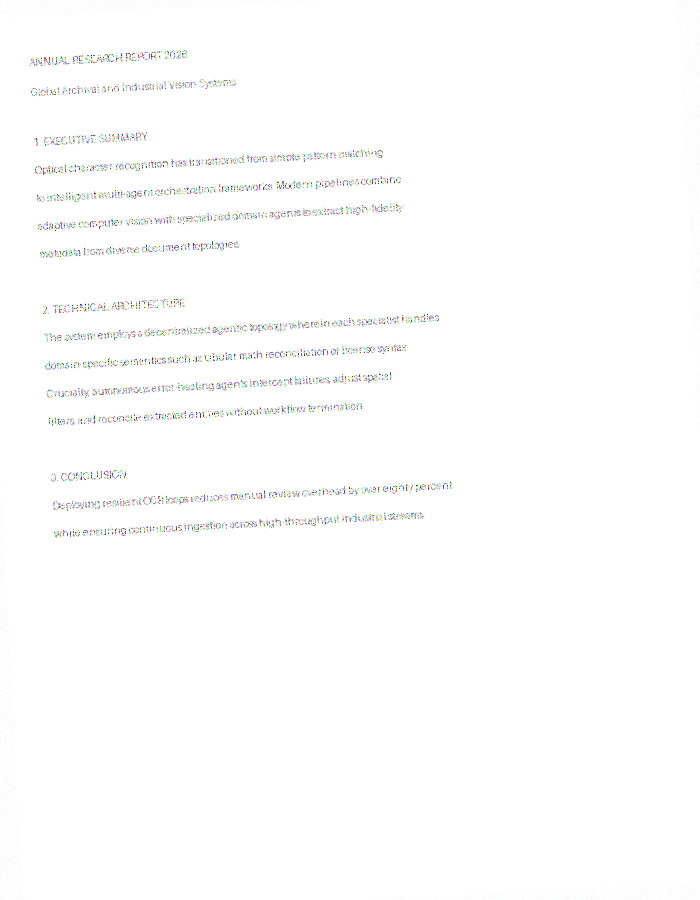
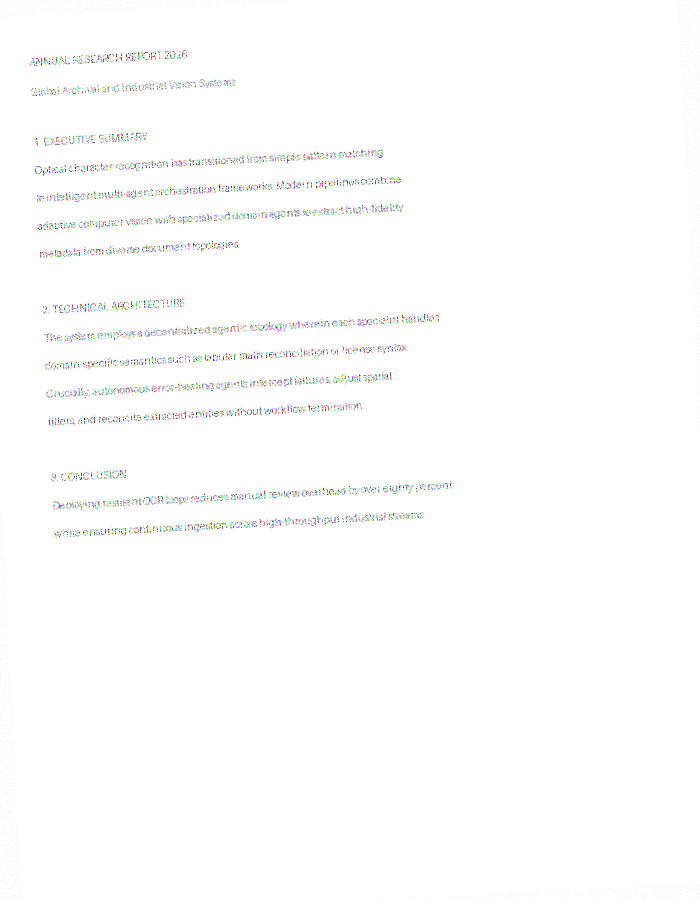
fix: handle None values in invoice financial fields (TypeError on real-world PDFs)

diff --git a/ocr_agentic_system/app.py b/ocr_agentic_system/app.py
@@ -265,9 +265,9 @@ if file_path and os.path.exists(file_path):
                 with icol2:
                     fin = ext.get("financial_summary", {})
                     curr = ext.get("currency", "$")
-                    st.markdown(f"**Subtotal:** {curr}{fin.get('subtotal', 0.0):.2f}")
-                    st.markdown(f"**Tax / VAT:** {curr}{fin.get('tax', 0.0):.2f}")
-                    st.markdown(f"### Grand Total: {curr}{fin.get('grand_total', 0.0):.2f}")
+                    st.markdown(f"**Subtotal:** {curr}{(fin.get('subtotal') or 0.0):.2f}")
+                    st.markdown(f"**Tax / VAT:** {curr}{(fin.get('tax') or 0.0):.2f}")
+                    st.markdown(f"### Grand Total: {curr}{(fin.get('grand_total') or 0.0):.2f}")
 
                 st.markdown("#### Parsed Line Items:")
                 line_items = ext.get("line_items", [])

diff --git a/ocr_agentic_system/cli.py b/ocr_agentic_system/cli.py
@@ -85,9 +85,9 @@ def run_single(file_path: str, task_type: str = "auto"):
         inv_tbl.add_row("Invoice Date", ext.get("invoice_date", ""))
         fin = ext.get("financial_summary", {})
         curr = ext.get("currency", "$")
-        inv_tbl.add_row("Subtotal", f"{curr}{fin.get('subtotal', 0.0):.2f}")
-        inv_tbl.add_row("Tax", f"{curr}{fin.get('tax', 0.0):.2f}")
-        inv_tbl.add_row("Grand Total", f"[bold underline]{curr}{fin.get('grand_total', 0.0):.2f}[/bold underline]")
+        inv_tbl.add_row("Subtotal", f"{curr}{(fin.get('subtotal') or 0.0):.2f}")
+        inv_tbl.add_row("Tax", f"{curr}{(fin.get('tax') or 0.0):.2f}")
+        inv_tbl.add_row("Grand Total", f"[bold underline]{curr}{(fin.get('grand_total') or 0.0):.2f}[/bold underline]")
         console.print(inv_tbl)
 
     else: # document
